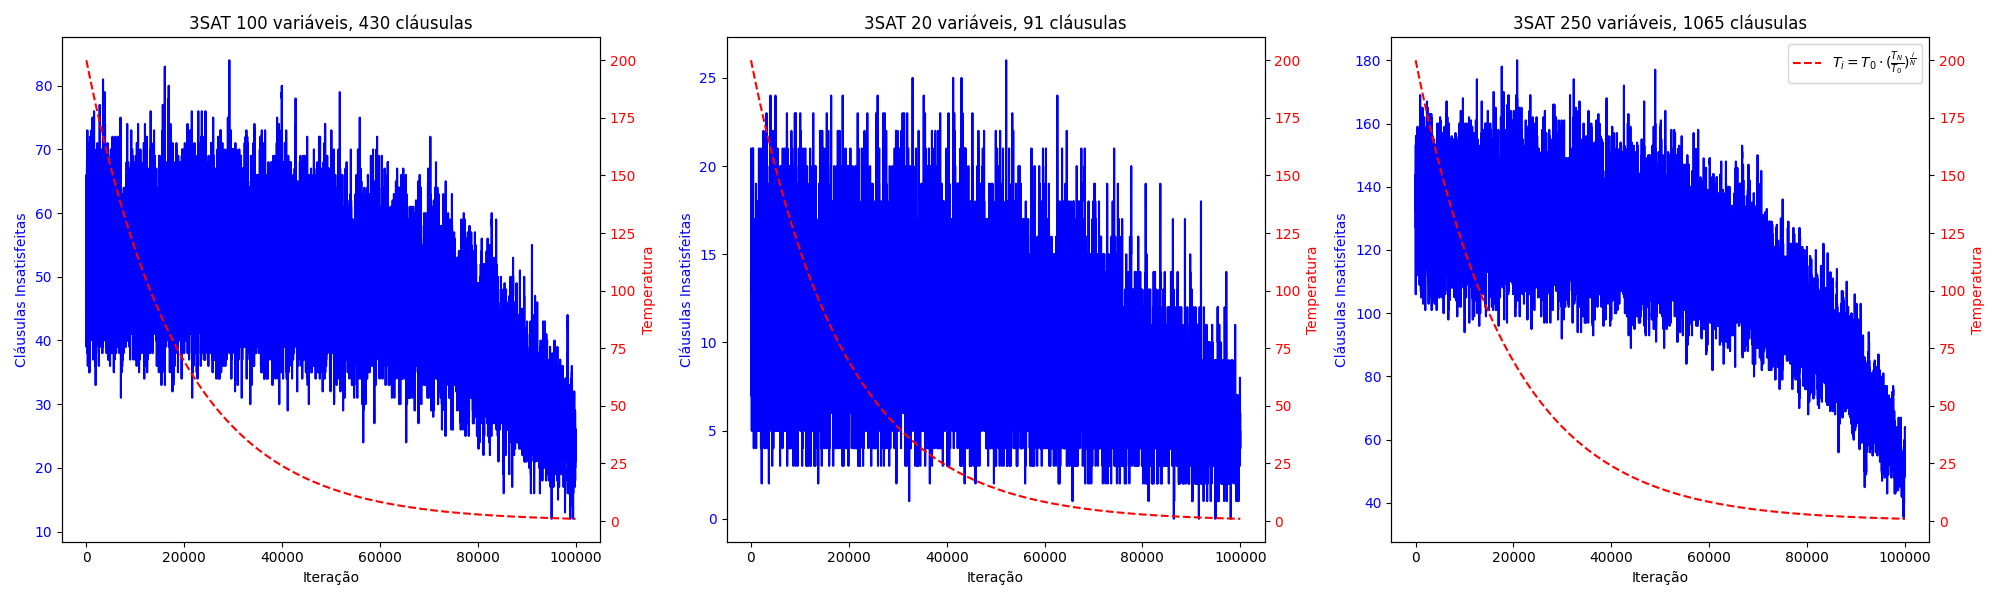
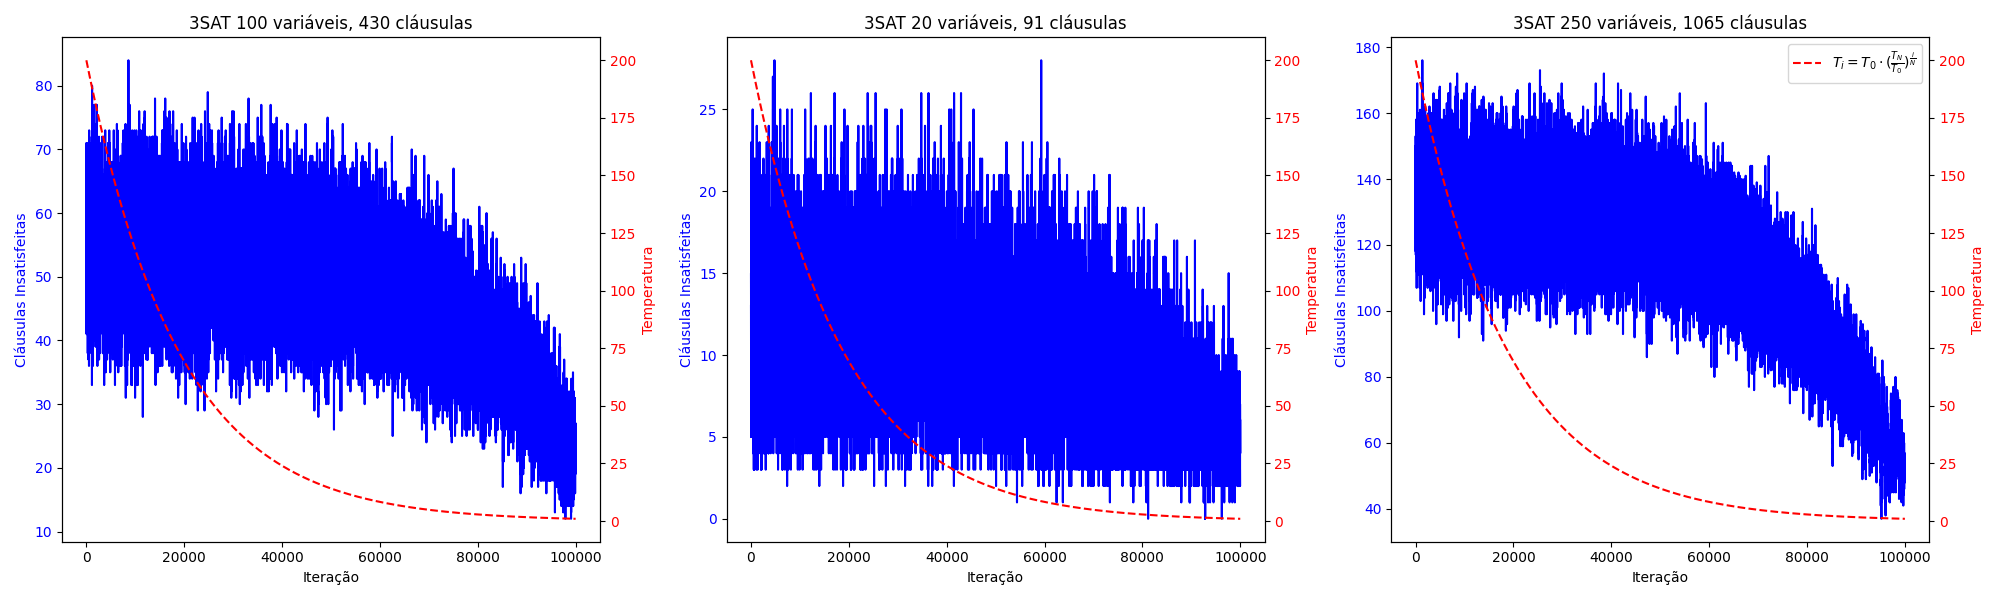
box plot

diff --git a/box_plot_experiment.py b/box_plot_experiment.py
@@ -1,0 +1,60 @@
+import os
+import matplotlib.pyplot as plt
+import pandas as pd
+import numpy as np
+import json
+from src.annealing import SimulatedAnnealing
+from src.sat import SATDomain
+
+# Configurações de diretório
+FORMULAS_DIR = './instances'
+RESULTS_DIR = './results/convergence_experiment'
+
+# Configurações de experimento
+COOLING_SCHEDULE = 1
+SA_MAX_VALUES = (1, 5, 10)
+EVAL_NUM = 100000
+
+if not os.path.exists(RESULTS_DIR):
+    os.mkdir(RESULTS_DIR)
+
+files = os.listdir(FORMULAS_DIR)
+paths = [os.path.join(FORMULAS_DIR, f) for f in files]
+instances = [SATDomain(p, flip_prob=0.01) for p in paths]
+mean_std_dict = {}
+
+fig, plot_axes = plt.subplots(1, 3, figsize=(20, 6))
+
+for instance, ax in zip(instances, plot_axes):
+    print(instance.get_label())
+    algorithm = SimulatedAnnealing(
+            cooling_schedule_i=COOLING_SCHEDULE,
+            domain=instance
+        )
+    
+    # Resultados referentes a cada SaMax
+    results_dict = {sa_max: [] for sa_max in SA_MAX_VALUES}
+    
+    for sa_max in SA_MAX_VALUES:
+        print(f'SaMax: {sa_max}')
+        for i in range(30):
+            print(f'Iteração {i}')
+            result = algorithm.run(
+                t0=200,
+                t_final=1,
+                sa_max=sa_max,
+                eval_max=EVAL_NUM,
+            )
+            best_ever = result['best_ever_energy']
+            results_dict.get(sa_max).append(best_ever)
+    
+    results_df = pd.DataFrame(results_dict)
+    mean_std_dict.update({instance.get_label(): [(sa_max, np.mean(results_dict[sa_max]).item(), np.std(results_dict[sa_max]).item()) for sa_max in SA_MAX_VALUES]})
+    ax.set_title(instance.get_label())
+    ax.set_ylabel('Cláusulas Insatisfeitas')
+    ax.set_xlabel('SaMax')
+    results_df.plot(kind='box', ax=ax)
+
+plt.tight_layout()
+plt.savefig(os.path.join(RESULTS_DIR, 'box_plots.png'))
+print(json.dumps(mean_std_dict, indent=4, ensure_ascii=False))

diff --git a/convergence_experiment.py b/convergence_experiment.py
@@ -27,7 +27,7 @@ for instance, ax in zip(instances, plot_axes):
     result = algorithm.run(
         t0=200,
         t_final=1,
-        sa_max=3,
+        sa_max=5,
         eval_max=100000,
     )
     energies = result['energies']
